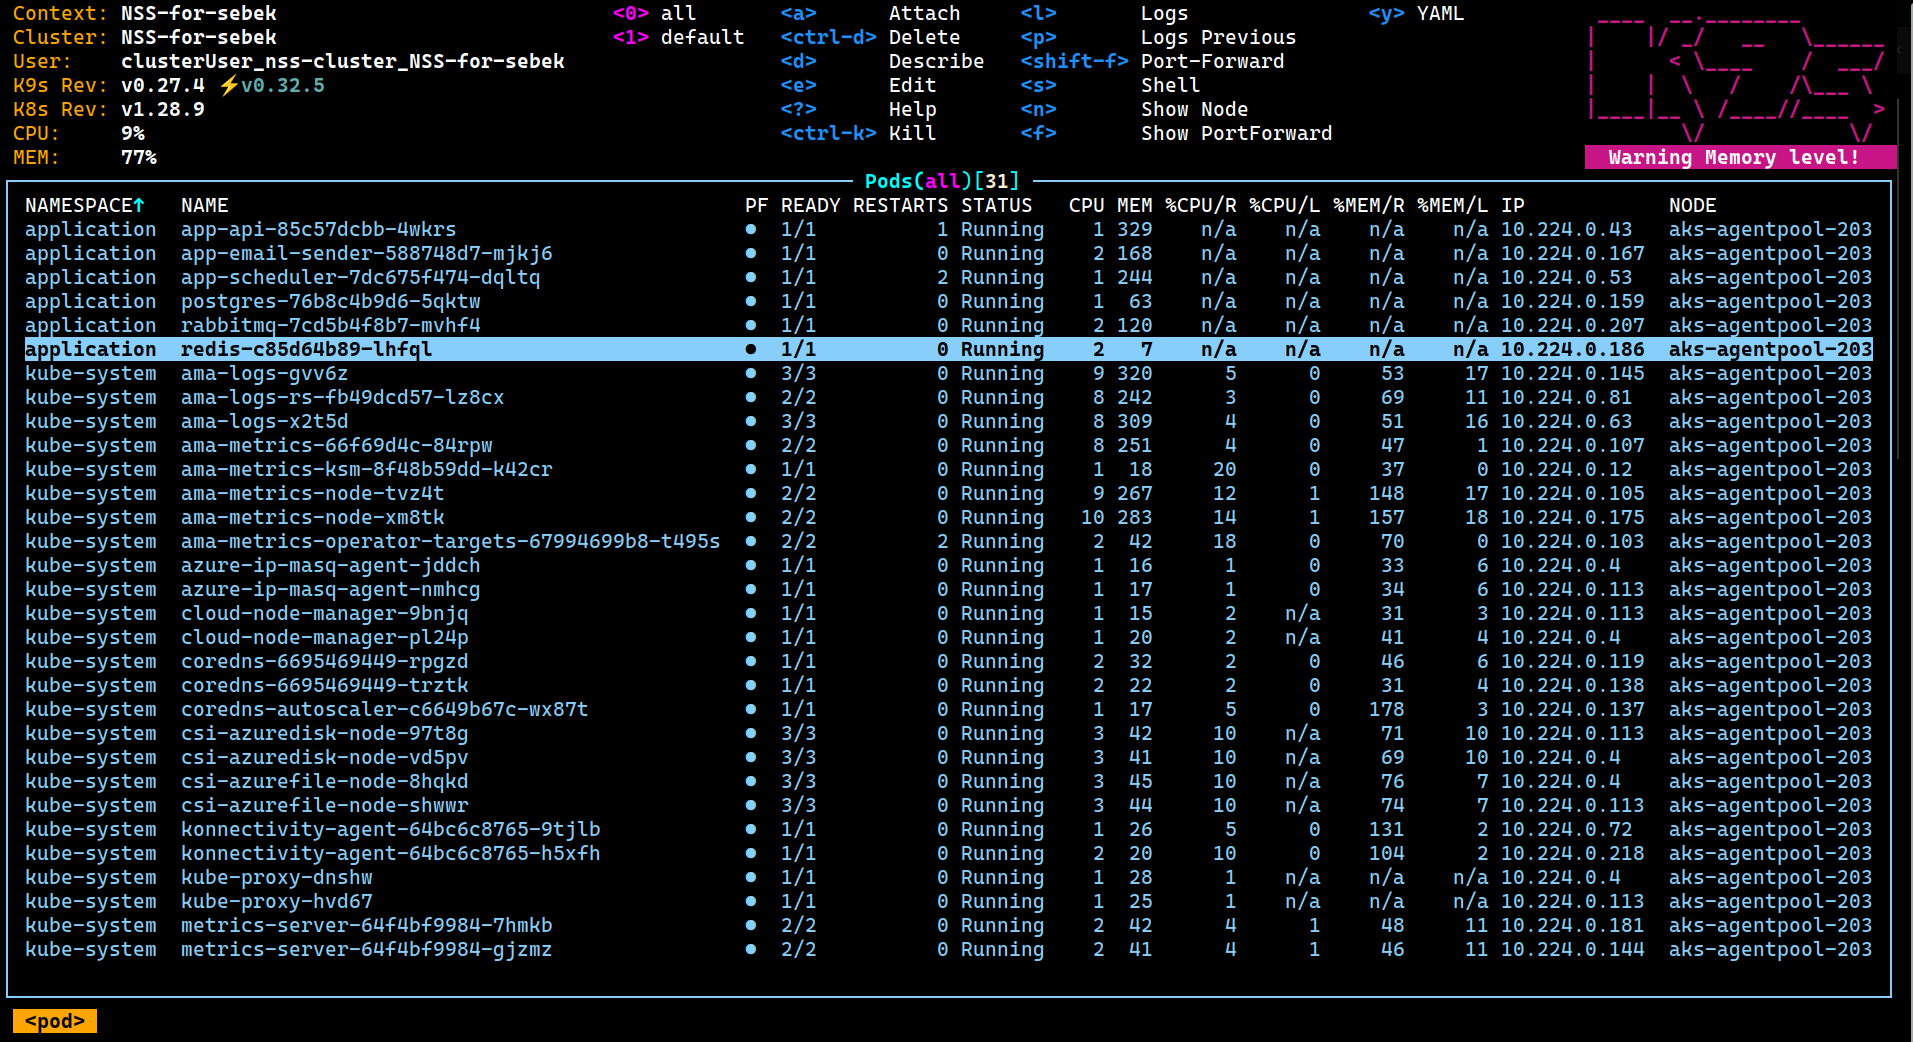
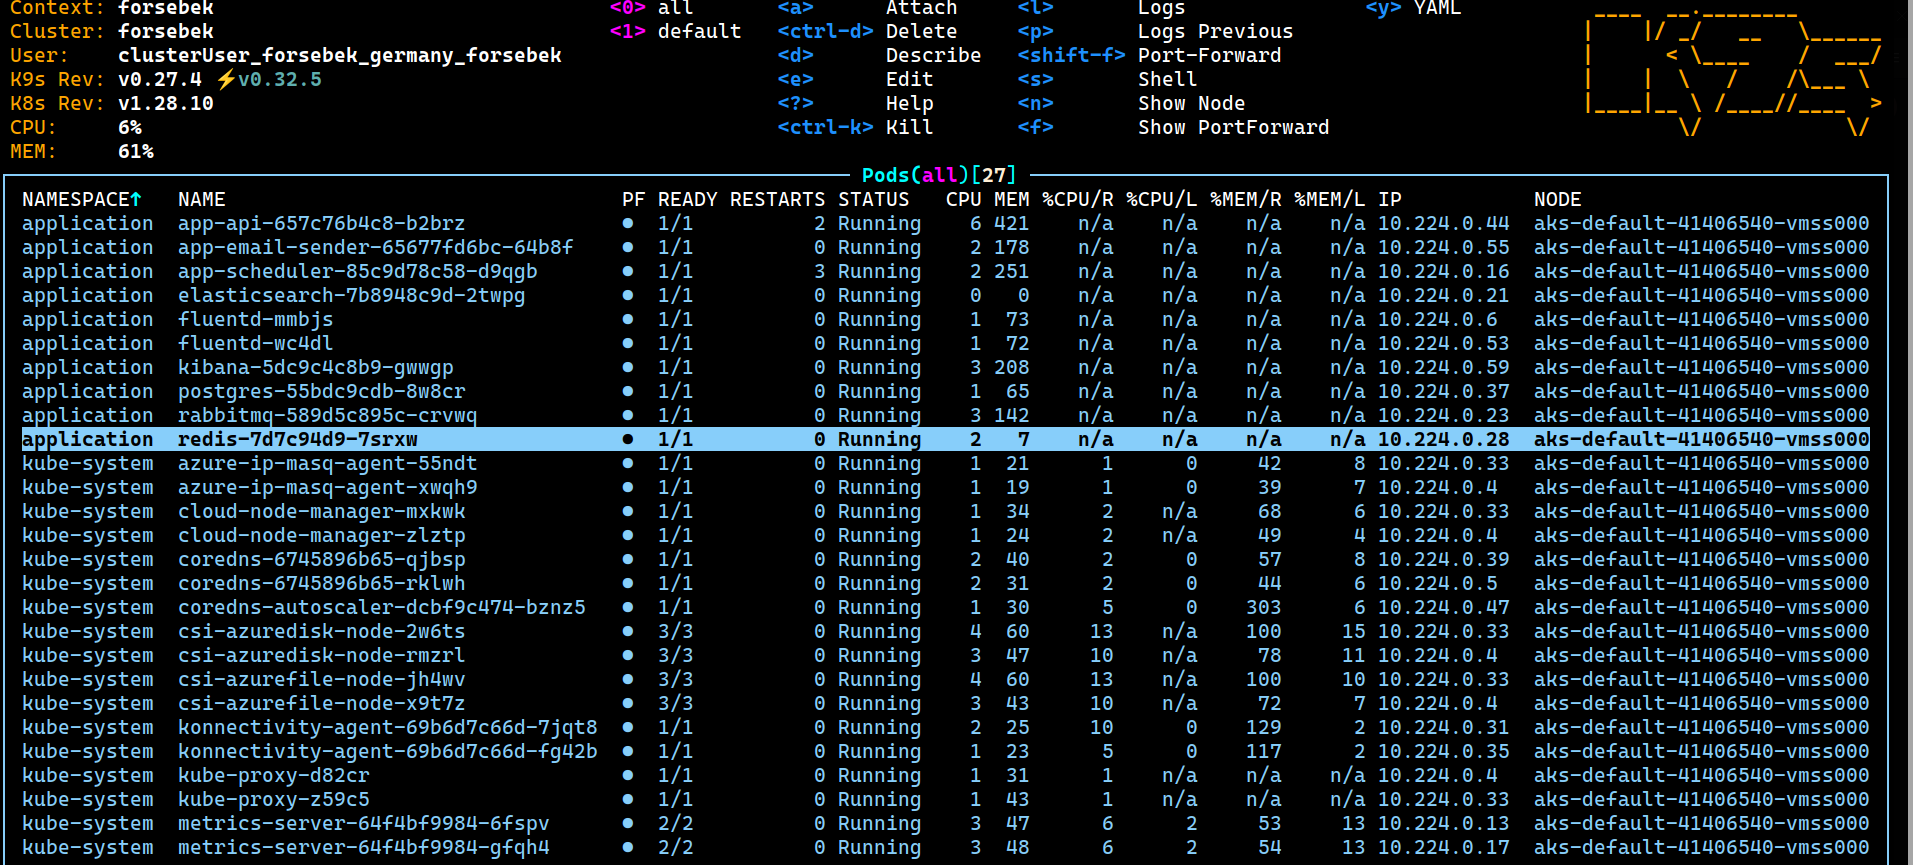
:memo: - docs: Refactor documentation because of EFK stack implementation

diff --git a/README.md b/README.md
@@ -58,7 +58,7 @@ _But we recommend you to use Azure CLI + Terraform to create necessary resources
 
 ```bash
 cd k8s-manifests/
-make concat
+make concat  # Concatenate all the files into a single file
 kubectl apply -f aks-store-quickstart.yaml
 ```
 
@@ -83,6 +83,14 @@ service/postgres created
 service/app-api created
 service/redis created
 service/rabbitmq created
+persistentvolume/elasticsearch-pv created
+persistentvolumeclaim/elasticsearch-pvc created
+deployment.apps/elasticsearch created
+service/elasticsearch created
+configmap/fluentd-config created
+daemonset.apps/fluentd created
+deployment.apps/kibana created
+service/kibana created
 ```
 
 ---
